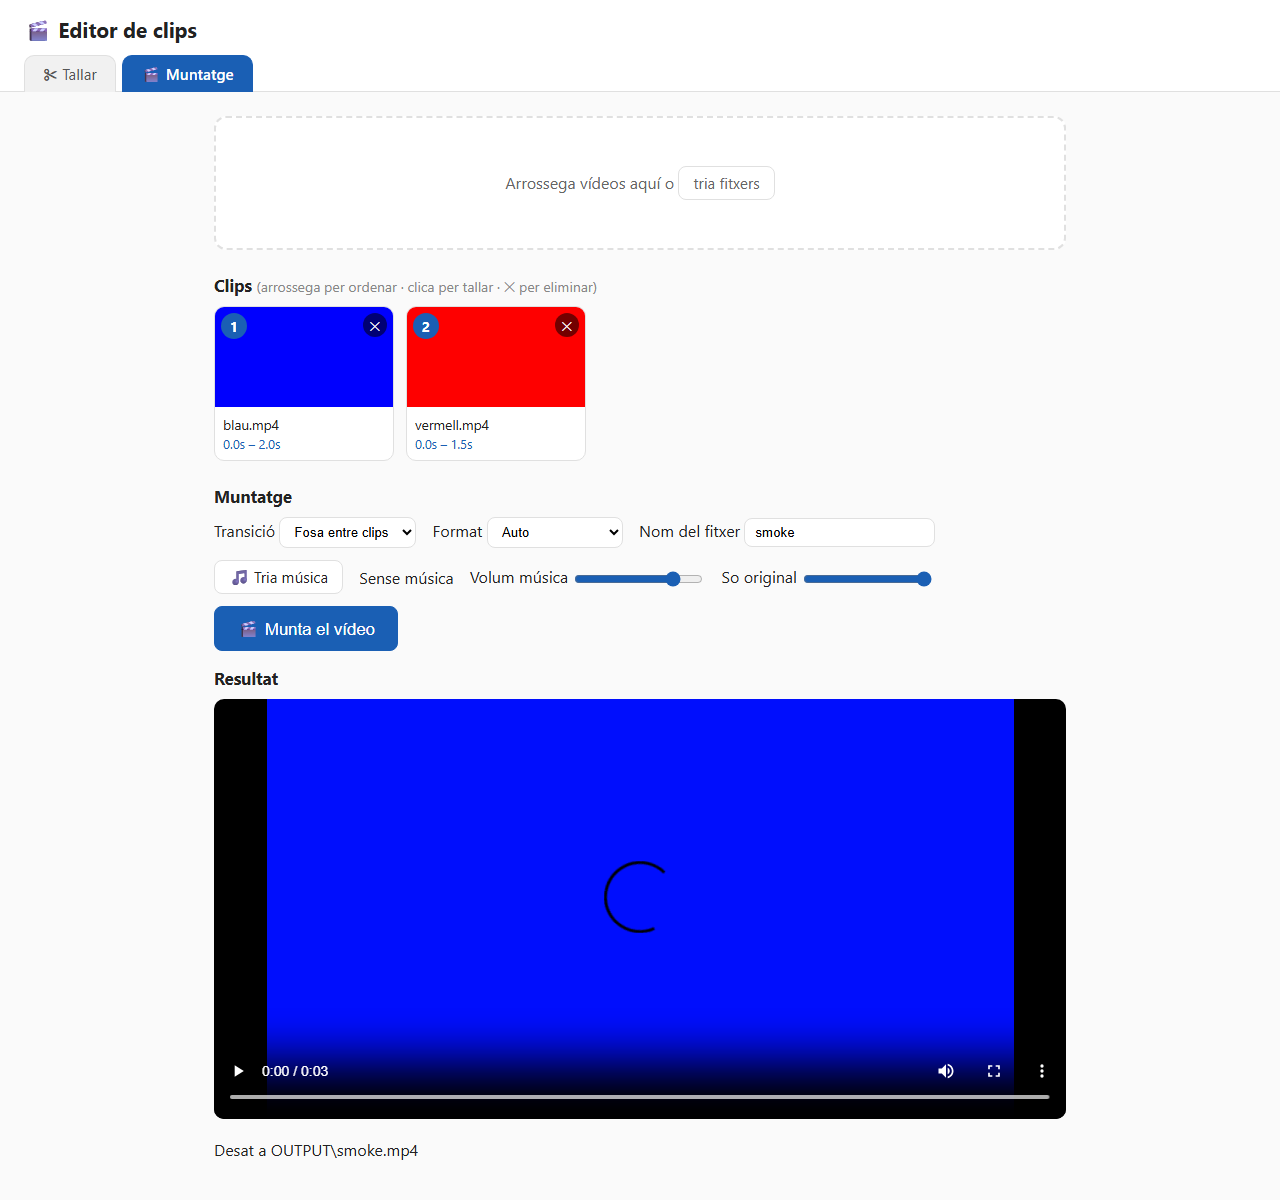
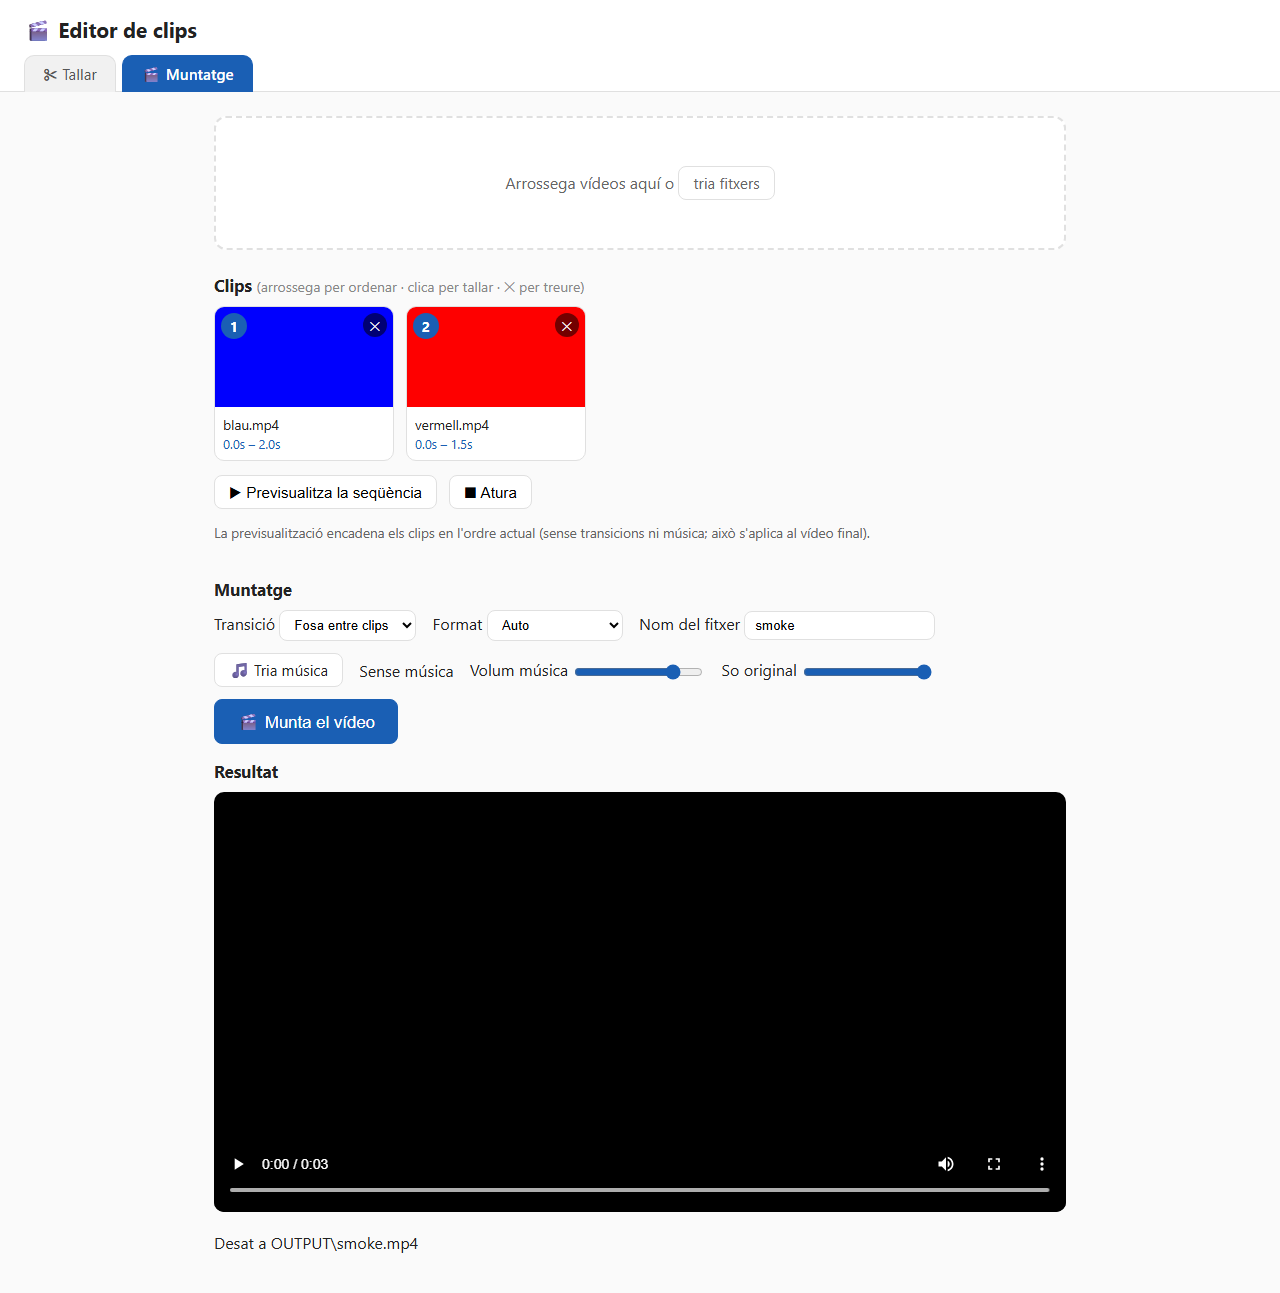
feat: previsualitzacio de la sequencia al Muntatge (encadena clips en l'ordre actual)

diff --git a/pwa/app.js b/pwa/app.js
@@ -81,6 +81,56 @@ function renderClips() {
     list.appendChild(card);
   });
   $("assemble").disabled = state.clips.length === 0;
+  $("seq-play").disabled = state.clips.length === 0;
+}
+
+// --- previsualització de la seqüència (encadena els clips en l'ordre actual) ---
+let seqToken = 0;
+
+function stopSequence() {
+  seqToken++;
+  const v = $("seq-video");
+  v.pause();
+  v.hidden = true;
+  $("seq-stop").hidden = true;
+  $("seq-play").hidden = false;
+  $("seq-label").textContent = "";
+}
+
+async function playSequence() {
+  const token = ++seqToken;
+  const v = $("seq-video");
+  v.hidden = false;
+  $("seq-play").hidden = true;
+  $("seq-stop").hidden = false;
+  for (let i = 0; i < state.clips.length; i++) {
+    if (token !== seqToken) return;
+    const clip = state.clips[i];
+    $("seq-label").textContent = `▶ ${i + 1}/${state.clips.length}: ${clip.name}`;
+    await playClipRange(v, clip.url, clip.start, clip.end, () => token !== seqToken);
+  }
+  if (token === seqToken) stopSequence();
+}
+
+function playClipRange(v, src, start, end, cancelled) {
+  return new Promise((resolve) => {
+    const cleanup = () => {
+      v.removeEventListener("timeupdate", onTime);
+      v.removeEventListener("ended", onDone);
+      resolve();
+    };
+    const onTime = () => {
+      if (cancelled() || v.currentTime >= end - 0.05) { v.pause(); cleanup(); }
+    };
+    const onDone = () => cleanup();
+    v.addEventListener("timeupdate", onTime);
+    v.addEventListener("ended", onDone);
+    v.src = src;
+    v.addEventListener("loadedmetadata", () => {
+      v.currentTime = start;
+      v.play().catch(() => cleanup());
+    }, { once: true });
+  });
 }
 
 function removeClip(id) {
@@ -213,6 +263,9 @@ $("assemble").onclick = async () => {
     $("status").textContent = "";
   }
 };
+
+$("seq-play").onclick = playSequence;
+$("seq-stop").onclick = stopSequence;
 
 function showError(msg) { const el = $("error"); el.textContent = msg; el.hidden = false; }
 function hideError() { $("error").hidden = true; }

diff --git a/static/app.js b/static/app.js
@@ -45,6 +45,56 @@ function renderClips() {
     list.appendChild(card);
   });
   $("assemble").disabled = state.clips.length === 0;
+  $("seq-play").disabled = state.clips.length === 0;
+}
+
+// --- previsualització de la seqüència (encadena els clips en l'ordre actual) ---
+let seqToken = 0;
+
+function stopSequence() {
+  seqToken++;
+  const v = $("seq-video");
+  v.pause();
+  v.hidden = true;
+  $("seq-stop").hidden = true;
+  $("seq-play").hidden = false;
+  $("seq-label").textContent = "";
+}
+
+async function playSequence() {
+  const token = ++seqToken;
+  const v = $("seq-video");
+  v.hidden = false;
+  $("seq-play").hidden = true;
+  $("seq-stop").hidden = false;
+  for (let i = 0; i < state.clips.length; i++) {
+    if (token !== seqToken) return;
+    const clip = state.clips[i];
+    $("seq-label").textContent = `▶ ${i + 1}/${state.clips.length}: ${clip.name}`;
+    await playClipRange(v, clip.media_url, clip.start, clip.end, () => token !== seqToken);
+  }
+  if (token === seqToken) stopSequence();
+}
+
+function playClipRange(v, src, start, end, cancelled) {
+  return new Promise((resolve) => {
+    const cleanup = () => {
+      v.removeEventListener("timeupdate", onTime);
+      v.removeEventListener("ended", onDone);
+      resolve();
+    };
+    const onTime = () => {
+      if (cancelled() || v.currentTime >= end - 0.05) { v.pause(); cleanup(); }
+    };
+    const onDone = () => cleanup();
+    v.addEventListener("timeupdate", onTime);
+    v.addEventListener("ended", onDone);
+    v.src = src;
+    v.addEventListener("loadedmetadata", () => {
+      v.currentTime = start;
+      v.play().catch(() => cleanup());
+    }, { once: true });
+  });
 }
 
 async function removeClip(id) {
@@ -191,6 +241,9 @@ async function pollJob(jobId) {
     setTimeout(() => pollJob(jobId), 1000);
   }
 }
+
+$("seq-play").onclick = playSequence;
+$("seq-stop").onclick = stopSequence;
 
 function showError(msg) { const el = $("error"); el.textContent = msg; el.hidden = false; }
 function hideError() { $("error").hidden = true; }

diff --git a/pwa/index.html b/pwa/index.html
@@ -26,8 +26,16 @@
   </section>
 
   <section>
-    <h2>Clips <small>(arrossega per ordenar · clica per tallar · ✕ per eliminar)</small></h2>
+    <h2>Clips <small>(arrossega per ordenar · clica per tallar · ✕ per treure)</small></h2>
     <div id="clip-list"></div>
+    <div class="seq-controls">
+      <button id="seq-play" class="btn" disabled>▶ Previsualitza la seqüència</button>
+      <button id="seq-stop" class="btn" hidden>⏹ Atura</button>
+      <span id="seq-label" class="seq-label"></span>
+    </div>
+    <video id="seq-video" playsinline hidden></video>
+    <p class="hint">La previsualització encadena els clips en l'ordre actual (sense transicions ni música;
+      això s'aplica al vídeo final).</p>
   </section>
 
   <section id="editor" hidden>

diff --git a/static/index.html b/static/index.html
@@ -21,8 +21,16 @@
   </section>
 
   <section>
-    <h2>Clips <small>(arrossega per ordenar · clica per tallar · ✕ per eliminar)</small></h2>
+    <h2>Clips <small>(arrossega per ordenar · clica per tallar · ✕ per treure)</small></h2>
     <div id="clip-list"></div>
+    <div class="seq-controls">
+      <button id="seq-play" class="btn" disabled>▶ Previsualitza la seqüència</button>
+      <button id="seq-stop" class="btn" hidden>⏹ Atura</button>
+      <span id="seq-label" class="seq-label"></span>
+    </div>
+    <video id="seq-video" playsinline hidden></video>
+    <p class="hint">La previsualització encadena els clips en l'ordre actual (sense transicions ni música;
+      això s'aplica al vídeo final).</p>
   </section>
 
   <section id="editor" hidden>

diff --git a/pwa/style.css b/pwa/style.css
@@ -69,3 +69,7 @@ details.fine summary { cursor: pointer; color: #666; font-size: .9rem; }
 .ord { position: absolute; top: 6px; left: 6px; background: var(--accent); color: #fff; width: 26px; height: 26px; border-radius: 50%; display: flex; align-items: center; justify-content: center; font-weight: 700; font-size: .9rem; z-index: 1; pointer-events: none; }
 .card img { -webkit-user-drag: none; user-select: none; }
 .card { touch-action: manipulation; }
+
+.seq-controls { display: flex; align-items: center; gap: 12px; margin-top: 14px; }
+.seq-label { color: var(--accent); font-size: .95rem; }
+#seq-video { width: 100%; max-height: 420px; background: #000; border-radius: 10px; margin-top: 10px; }

diff --git a/static/style.css b/static/style.css
@@ -67,3 +67,7 @@ details.fine summary { cursor: pointer; color: #666; font-size: .9rem; }
 .ord { position: absolute; top: 6px; left: 6px; background: var(--accent); color: #fff; width: 26px; height: 26px; border-radius: 50%; display: flex; align-items: center; justify-content: center; font-weight: 700; font-size: .9rem; z-index: 1; pointer-events: none; }
 .card img { -webkit-user-drag: none; user-select: none; }
 .card { touch-action: manipulation; }
+
+.seq-controls { display: flex; align-items: center; gap: 12px; margin-top: 14px; }
+.seq-label { color: var(--accent); font-size: .95rem; }
+#seq-video { width: 100%; max-height: 420px; background: #000; border-radius: 10px; margin-top: 10px; }

diff --git a/pwa/sw.js b/pwa/sw.js
@@ -1,6 +1,6 @@
 "use strict";
 
-const CACHE = "clip-editor-v5";
+const CACHE = "clip-editor-v6";
 const ASSETS = [
   "./", "./index.html", "./talls.html", "./style.css", "./app.js", "./talls.js", "./engine.js",
   "./manifest.json", "./icon-192.png", "./icon-512.png",

diff --git a/tests/e2e_smoke.py b/tests/e2e_smoke.py
@@ -68,6 +68,15 @@ def main() -> int:
         assert ords == ["1", "2"], f"Numeracio incorrecta: {ords}"
         print("OK reordenacio amb numeracio:", names_after, ords)
 
+        # 3b. Previsualitzar la sequencia en l'ordre actual
+        page.click("#seq-play")
+        page.wait_for_selector("#seq-video:not([hidden])", timeout=5000)
+        label = page.locator("#seq-label").inner_text()
+        assert "1/2" in label, f"Etiqueta inesperada: {label}"
+        page.click("#seq-stop")
+        page.wait_for_selector("#seq-video[hidden]", state="attached", timeout=5000)
+        print("OK previsualitzacio de la sequencia (i aturada)")
+
         # 4. Muntar amb crossfade
         page.select_option("#transition", "crossfade")
         page.fill("#out-name", "smoke")